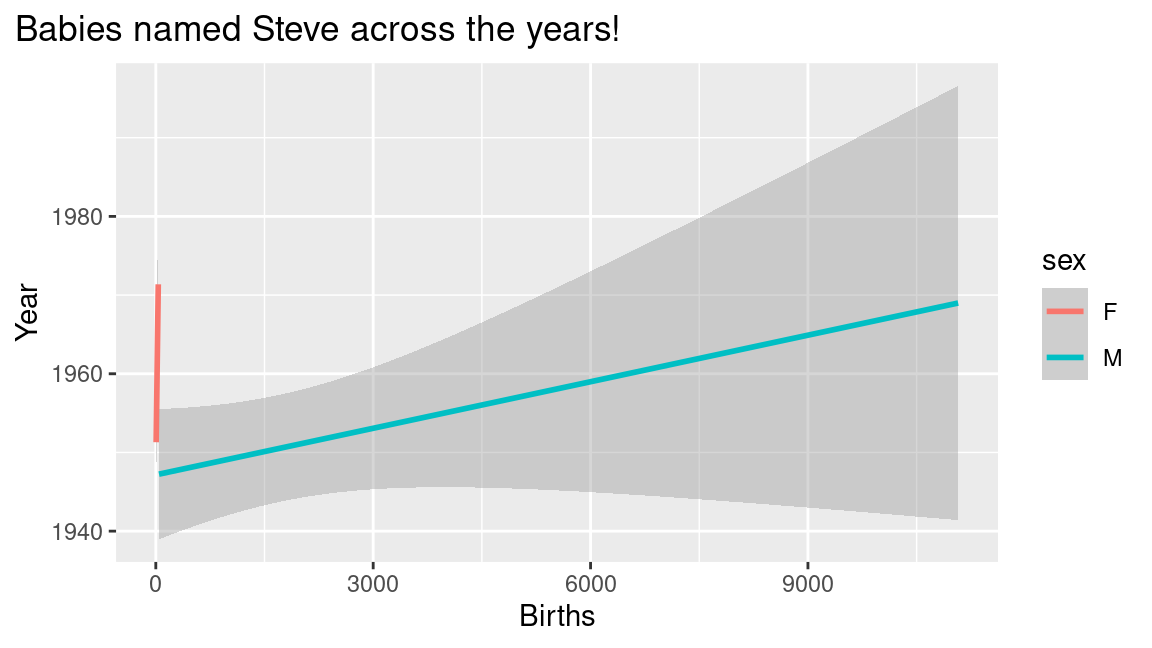
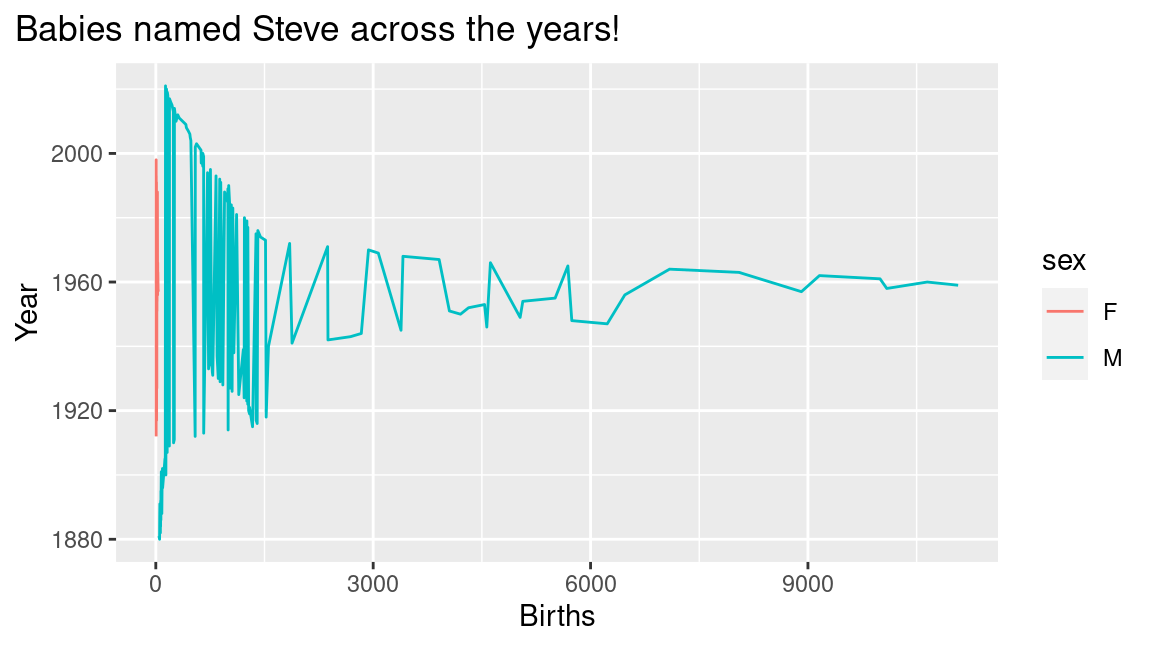
Adding images to viz change

diff --git a/projects/project-01/project-01-explore-babynames.md b/projects/project-01/project-01-explore-babynames.md
@@ -233,7 +233,7 @@ plot_trends_in_name <- function(my_name) {
     # Initialize a ggplot of `nb_births` vs. `year` colored by `sex`
     ggplot(aes(x = nb_births, y = year, color = sex)) +
     # Add a line layer
-    geom_smooth(method = "lm") +
+    geom_line() +
     # Add labels (title, x, y)
     labs(
       title = glue::glue("Babies named {my_name} across the years!"),
@@ -246,15 +246,11 @@ plot_trends_in_name <- function(my_name) {
 plot_trends_in_name("Steve")
 ```
 
-    #> `geom_smooth()` using formula = 'y ~ x'
-
 <img src="img/question-2-visualize-1.png" width="100%" style="display: block; margin: auto;" />
 
 ``` r
 plot_trends_in_name("Barbara")
 ```
-
-    #> `geom_smooth()` using formula = 'y ~ x'
 
 <img src="img/question-2-visualize-2.png" width="100%" style="display: block; margin: auto;" />
 
@@ -388,7 +384,7 @@ plot_trends_in_letter <- function(my_letter) {
     # Initialize a ggplot of pct_births vs. year colored by sex
     ggplot(aes(x = year, y = pct_births, color = sex)) +
     # Add a line layer
-    geom_smooth(method = "lm") +
+    geom_line() +
     # Add labels (title, subtitle, caption, x, y)
     labs(
       title = glue::glue("Trends in Names beginning with {my_letter}"),
@@ -405,8 +401,6 @@ plot_trends_in_letter <- function(my_letter) {
 
 plot_trends_in_letter("S")
 ```
-
-    #> `geom_smooth()` using formula = 'y ~ x'
 
 <img src="img/question-3-visualize-2-1.png" width="100%" style="display: block; margin: auto;" />
 
